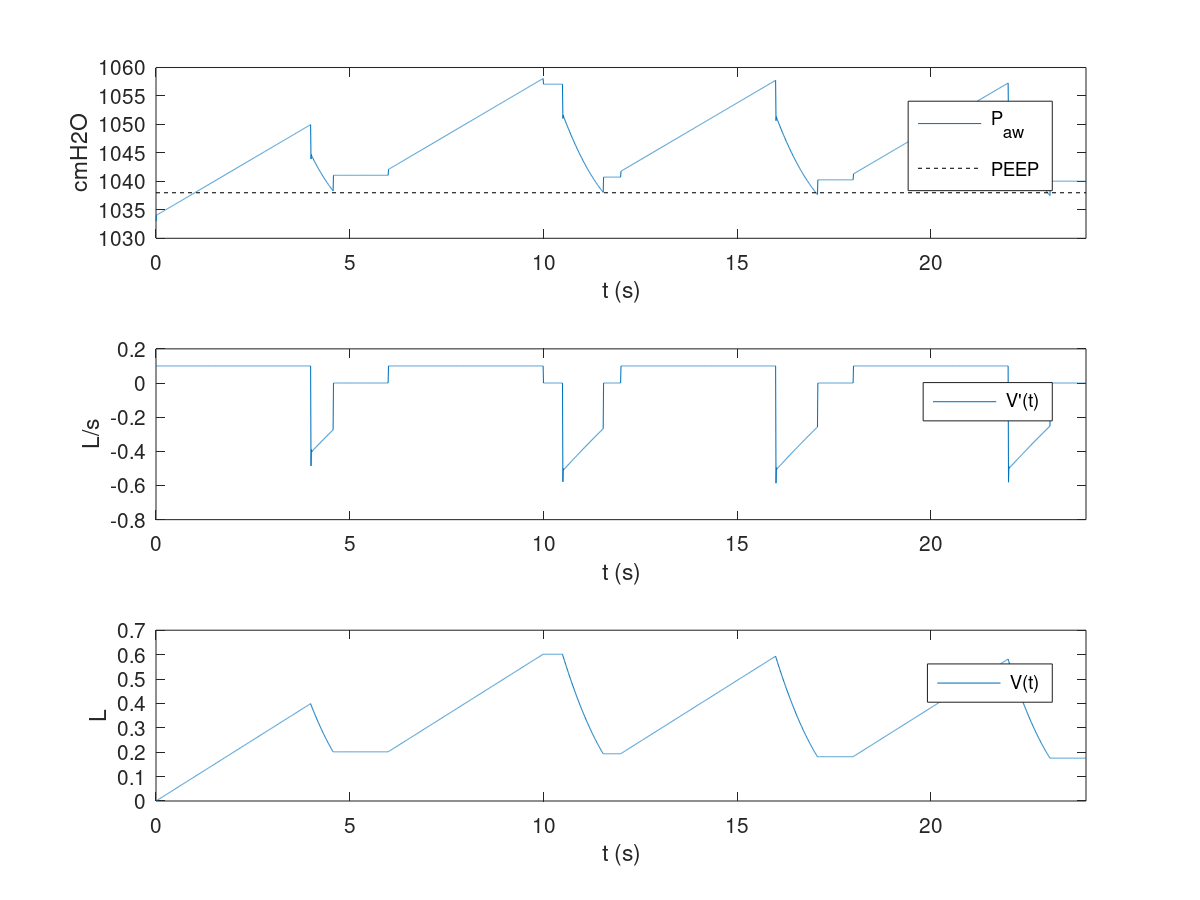
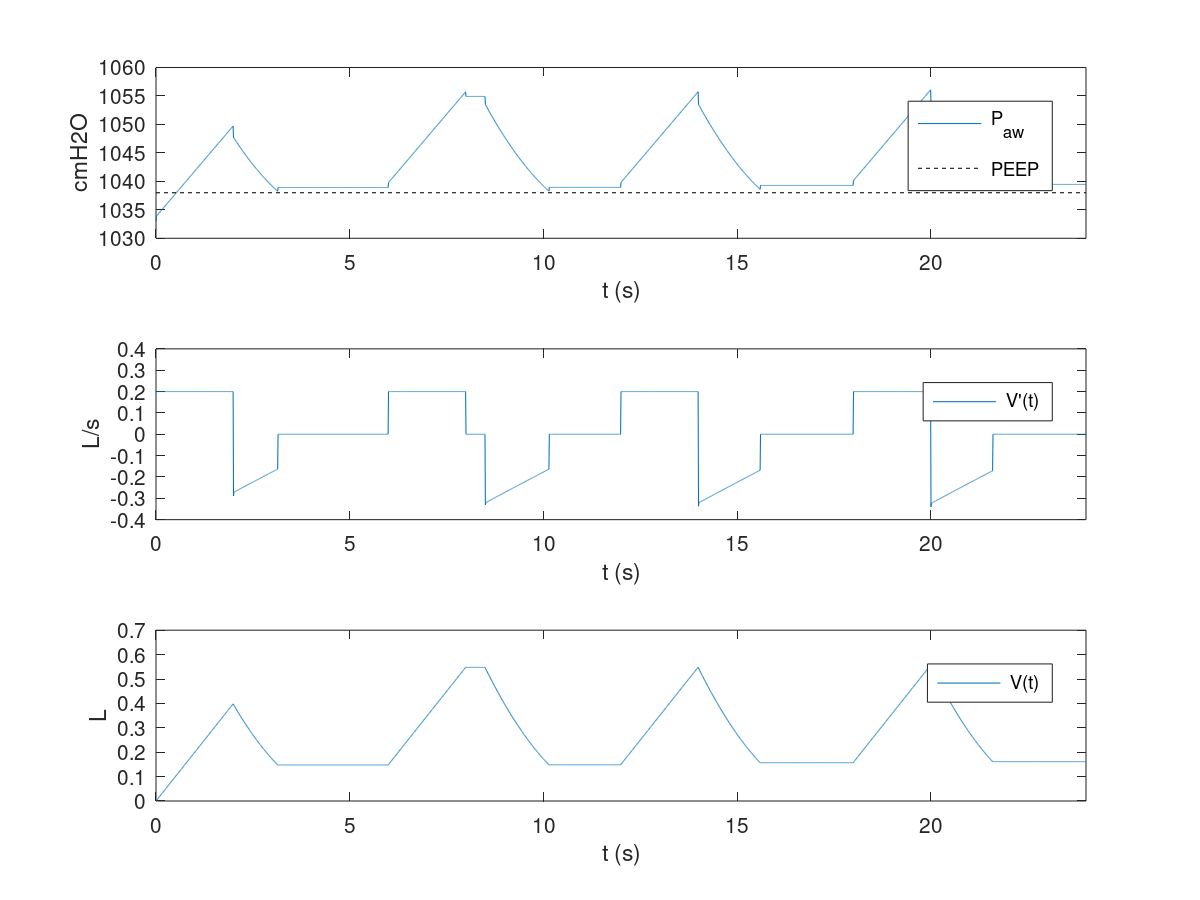
Fixed the I:E ratio

diff --git a/main.m b/main.m
@@ -17,10 +17,10 @@ clear all;
 %% Parameters %%
 %%%%%%%%%%%%%%%%
 % Valve
-kv = 0.5; % Flow coefficient in m3/h [5]
+kv = 0.3; % Flow coefficient in m3/h [5]
 
 % Respiratory system
-Rrs = 10; % Airway resistance in cmH20/L/sec [4, p8]
+Rrs = 4; % Airway resistance in cmH20/L/sec [4, p8]
 Ers = 50; % Respiratory system elastance (inverse of lung compliance) in cmH20/L. [4, p7]
 pMax = 1060; % maximum pressure in cmH20
 
@@ -36,7 +36,7 @@ fio2 = 0.3; % FiO2  Natural air includes 21% oxygen, which is equivalent to FiO2
 fmax = 10; % Ma.ximum flow in L/s
 TV = 0.4; % Tidal Volume in L
 PEEP = 5; % Positive end-expiratory pressure (PEEP) in cmH20
-ieRatio = 2; % Inspiratory:Expiratory ratio.
+ieRatio = 2; % Inspiratory:Expiratory ratio. 1:x.
 pD = 4000; % Device tank pressure in cmH2O
 
 %%%%%%%%%%%%%%%%
@@ -55,7 +55,7 @@ tEnd = 24.0;
 ## I:E = 2, bpm = 10
 ## I tijd = 60/10 * 2/3
 ## flow = TV / Itijd
-Itime = (60/bpm) * (ieRatio / (ieRatio + 1));
+Itime = (60/bpm) * (1 / (ieRatio + 1));
 dV_in_L = TV / Itime;
 dV_in = dV_in_L * 3.6; % L/s -> m3/h
 plantModel.dV_in = dV_in;
@@ -87,7 +87,7 @@ while i <= (tEnd / dT) + 1
     plantModel.valveOutOpenRatio = 0.1;
   end
   
-  if i == round(4.58 * (1/dT))
+  if i == round(3.15 * (1/dT))
     plantModel.valveOutOpenRatio = 0.0;
   end
   
@@ -104,7 +104,7 @@ while i <= (tEnd / dT) + 1
     plantModel.valveOutOpenRatio = 0.1;
   end
   
-  if i == round(11.55 * (1/dT))
+  if i == round(10.15 * (1/dT))
     plantModel.valveOutOpenRatio = 0.0;    
   end
   
@@ -118,7 +118,7 @@ while i <= (tEnd / dT) + 1
     plantModel.valveOutOpenRatio = 0.1;
   end
   
-  if i == round(17.08 * (1/dT))
+  if i == round(15.6 * (1/dT))
     plantModel.valveOutOpenRatio = 0.0;
   end
   
@@ -132,7 +132,7 @@ while i <= (tEnd / dT) + 1
     plantModel.valveOutOpenRatio = 0.1;
   end
   
-  if i == round(23.08 * (1/dT))
+  if i == round(21.6 * (1/dT))
     plantModel.valveOutOpenRatio = 0.0;
   end
  

diff --git a/README.md b/README.md
@@ -12,6 +12,7 @@ To implement valve behaviour, the following model is used: [2]
 ![Valve model Model](https://github.com/Vent4All/lung-device-simulator/raw/master/images/valve_model.png)
 
 ## Simulation #1
+Initial results (TV: 0.4L, I:E = 2, Ers = 50cmH2O/L, Rrs = 10cmH2O/L/s, %E2 = 0.5, PEEP = 5)  
 ![Sim1](https://github.com/Vent4All/lung-device-simulator/raw/master/plots/sim1.png)
 
 Shown are 4 cycles:  
